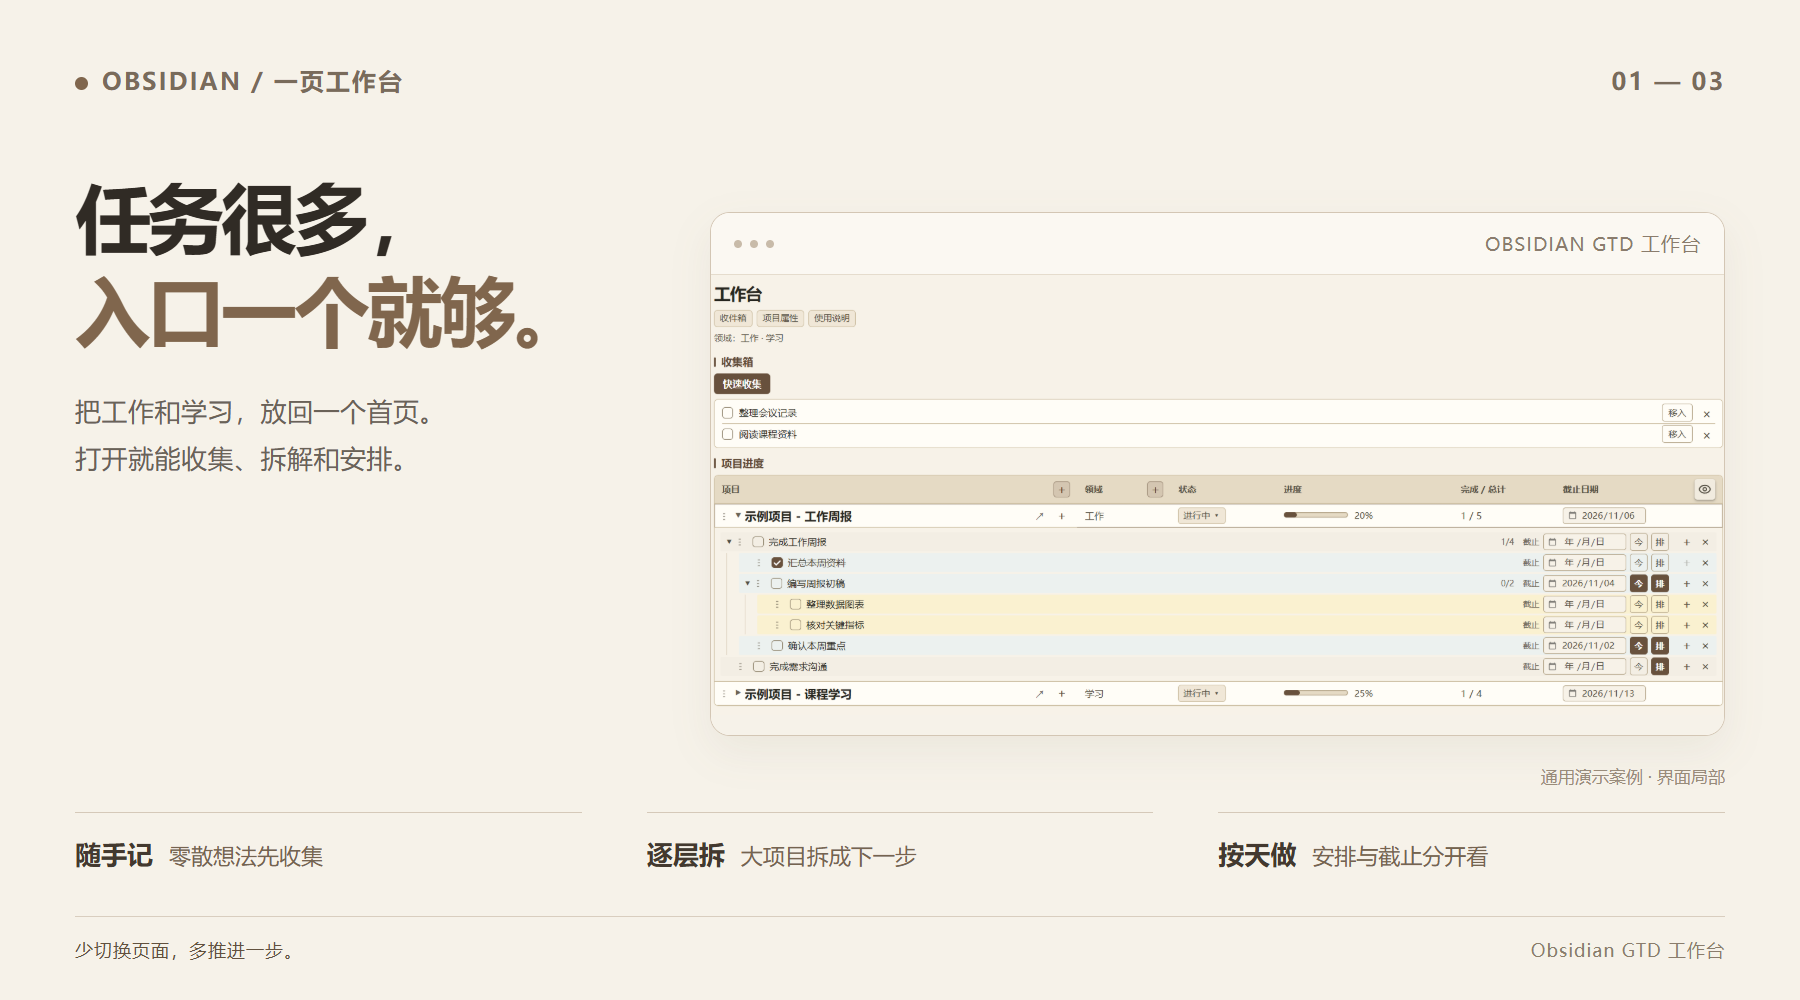
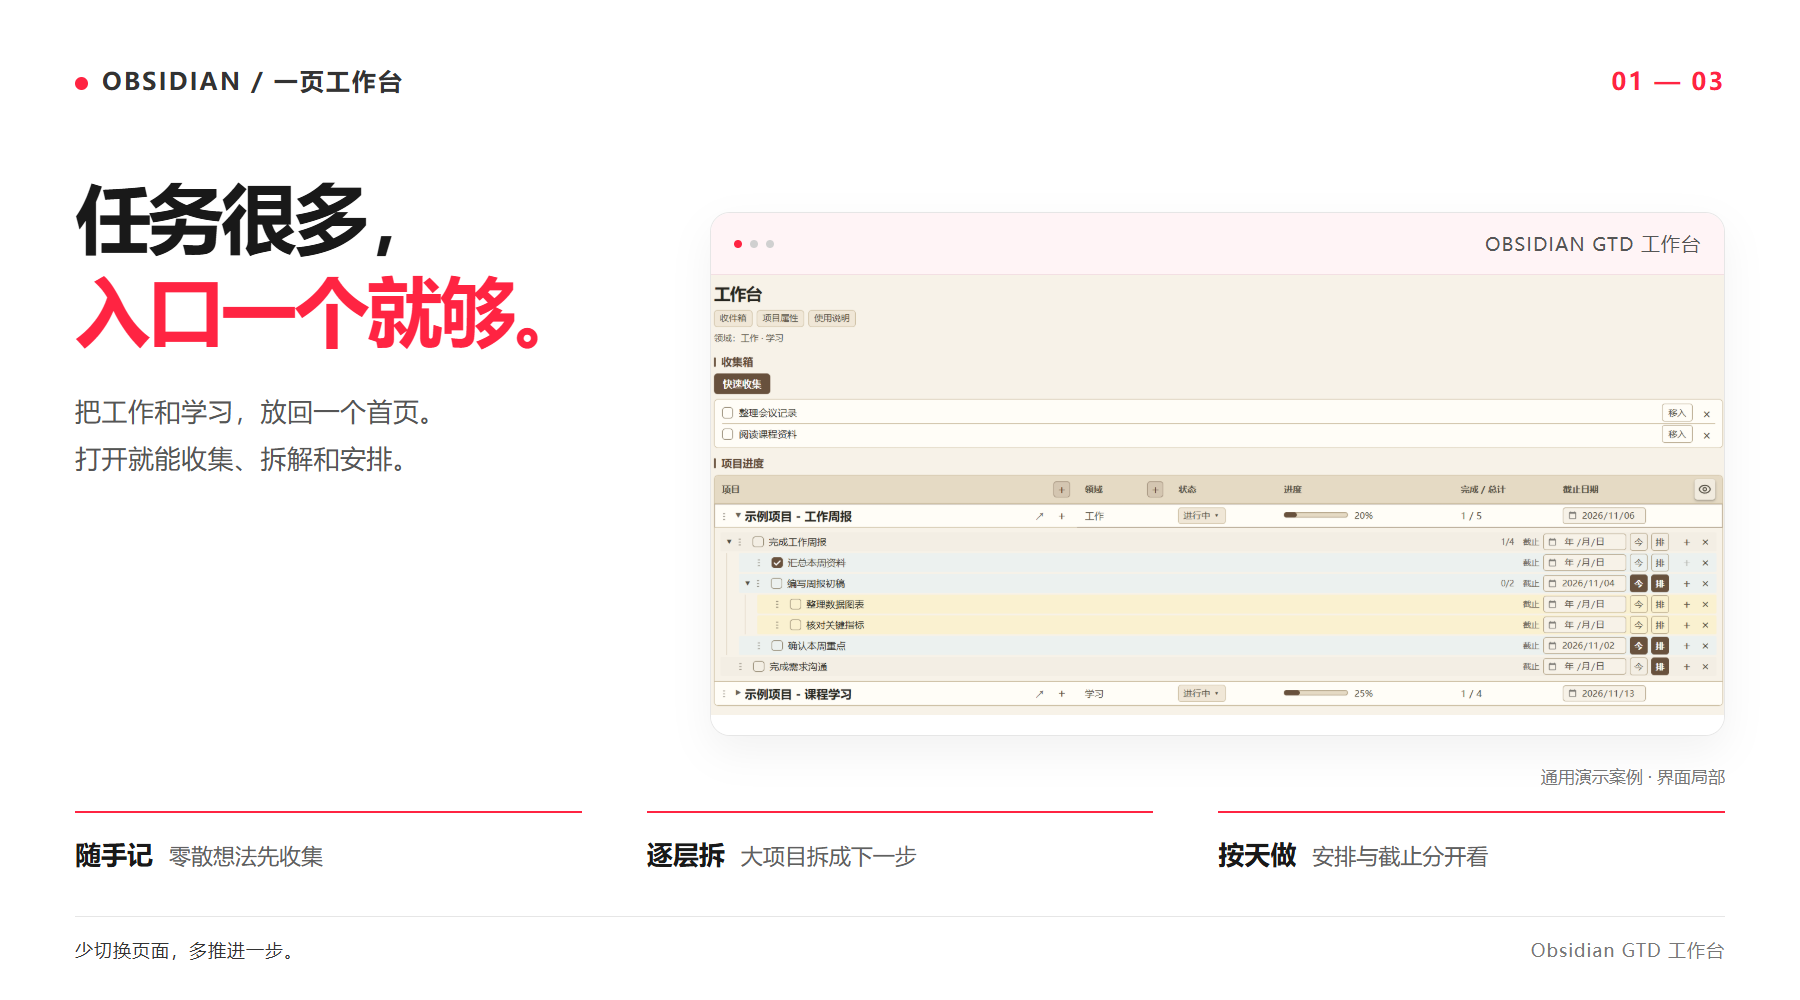
style: use red white black palette for promotional graphics

diff --git a/维护资料/宣传配图.html b/维护资料/宣传配图.html
@@ -3,23 +3,24 @@
 <meta charset="utf-8">
 <title>Obsidian GTD 工作台 · 宣传配图</title>
 <style>
-*{box-sizing:border-box}html,body{margin:0;padding:0;background:#f6f2e9;color:#302b25;font-family:"Microsoft YaHei","PingFang SC",sans-serif}
-.poster{position:relative;width:1080px;height:1440px;overflow:hidden;padding:68px 70px;background:#f6f2e9}
-.eyebrow{display:flex;justify-content:space-between;align-items:center;color:#796b5b;font-size:22px;font-weight:600;letter-spacing:2px}
-.mark{width:13px;height:13px;background:#80664d;display:inline-block;margin-right:14px;border-radius:50%}
+*{box-sizing:border-box}html,body{margin:0;padding:0;background:#fff;color:#191919;font-family:"Microsoft YaHei","PingFang SC",sans-serif}
+.poster{position:relative;width:1080px;height:1440px;overflow:hidden;padding:68px 70px;background:#fff}
+.eyebrow{display:flex;justify-content:space-between;align-items:center;color:#333;font-size:22px;font-weight:600;letter-spacing:2px}
+.eyebrow>div:last-child{color:#ff2442}
+.mark{width:13px;height:13px;background:#ff2442;display:inline-block;margin-right:14px;border-radius:50%}
 h1{font-size:88px;line-height:1.2;letter-spacing:-4px;margin:50px 0 27px;font-weight:800}
-h1 span{color:#80664d}.lead{font-size:31px;line-height:1.7;color:#6a6258;margin:0;letter-spacing:.5px}
-.frame{position:relative;border:1px solid #d3c6b4;border-radius:20px;background:#fffdf8;overflow:hidden;margin-top:38px;box-shadow:0 16px 40px #6e594813}
-.chrome{display:flex;align-items:center;gap:8px;padding:18px 23px;border-bottom:1px solid #e5dccd;font-size:19px;color:#8a7c6d;letter-spacing:1px;background:#fbf8f2}
-.dot{display:inline-block;width:8px;height:8px;border-radius:50%;background:#c8bba9}.chrome .label{margin-left:auto}
-.viewport{position:relative;overflow:hidden;height:544px;background:#f6f2e9}.viewport img{position:absolute;display:block;max-width:none;height:auto}
+h1 span{color:#ff2442}.lead{font-size:31px;line-height:1.7;color:#555;margin:0;letter-spacing:.5px}
+.frame{position:relative;border:1px solid #e6e6e6;border-radius:20px;background:#fff;overflow:hidden;margin-top:38px;box-shadow:0 16px 40px #0000000d}
+.chrome{display:flex;align-items:center;gap:8px;padding:18px 23px;border-bottom:1px solid #f3dfe3;font-size:19px;color:#555;letter-spacing:1px;background:#fff4f6}
+.dot{display:inline-block;width:8px;height:8px;border-radius:50%;background:#d0d0d0}.dot:first-child{background:#ff2442}.chrome .label{margin-left:auto}
+.viewport{position:relative;overflow:hidden;height:544px;background:#fff}.viewport img{position:absolute;display:block;max-width:none;height:auto}
 .cover .viewport img{width:1320px;left:-5px;top:0}.cover .viewport{height:520px}
 .tasks .viewport img{width:2200px;left:-30px;top:-80px}.tasks .viewport{height:490px}
 .calendar .viewport img{width:2260px;left:-48px;top:-112px}.calendar .viewport{height:520px}
-.pills{display:flex;gap:14px;margin-top:35px}.pill{flex:1;border-top:1px solid #d5c9b9;padding-top:20px;font-size:24px;color:#756450;line-height:1.6}
-.pill b{display:block;font-size:27px;color:#43392f;font-weight:600}.aside{margin-top:27px;color:#756c61;font-size:24px;line-height:1.65}
-.footer{position:absolute;bottom:52px;left:70px;right:70px;display:flex;justify-content:space-between;padding-top:21px;border-top:1px solid #d9cebf;font-size:18px;color:#8a7d6c;letter-spacing:1px}
-.footer strong{color:#62513e;font-weight:500}.note{font-size:17px;color:#998c7a;text-align:right;margin-top:12px}
+.pills{display:flex;gap:14px;margin-top:35px}.pill{flex:1;border-top:2px solid #ff2442;padding-top:20px;font-size:24px;color:#606060;line-height:1.6}
+.pill b{display:block;font-size:27px;color:#191919;font-weight:600}.aside{margin-top:27px;color:#606060;font-size:24px;line-height:1.65}
+.footer{position:absolute;bottom:52px;left:70px;right:70px;display:flex;justify-content:space-between;padding-top:21px;border-top:1px solid #e6e6e6;font-size:18px;color:#777;letter-spacing:1px}
+.footer strong{color:#333;font-weight:500}.note{font-size:17px;color:#777;text-align:right;margin-top:12px}
 .wide.poster{width:1800px;height:1000px;padding:65px 75px}.wide .eyebrow{font-size:24px}.wide .text{width:575px;position:absolute;left:75px;top:170px}.wide h1{font-size:76px;letter-spacing:-3px;line-height:1.22;margin:0 0 33px}.wide .lead{font-size:26px;line-height:1.8}.wide .frame{position:absolute;left:710px;top:212px;width:1015px;margin:0}.wide .viewport{height:460px}.wide .viewport img{width:1015px;left:0;top:0}.wide .pills{position:absolute;left:75px;right:75px;bottom:125px;gap:65px}.wide .pill{font-size:22px}.wide .pill b{display:inline;font-size:26px;margin-right:16px}.wide .footer{bottom:38px;left:75px;right:75px}.wide .note{position:absolute;right:75px;top:753px}
 </style>
 <main id="poster" class="poster"></main>

diff --git a/维护资料/README.md b/维护资料/README.md
@@ -6,7 +6,7 @@
 
 仓库根目录的 README 提供简洁介绍；详细安装和操作教程在 `docs/安装与使用.md`，可直接复用的小红书文案在 `docs/小红书图文.md`。`docs/images/` 中的七张界面截图于 2026-11-02 通过 Obsidian.com 从独立演示库的 1.10.2 版本重新截取，使用工作周报与课程学习两个示例项目。
 
-`宣传配图.html` 将这些真实截图排成米白色图文卡片。使用 `?card=cover`、`?card=tasks`、`?card=calendar` 选择三张 1080 × 1440 竖图；`?card=cover&format=wide` 为 1800 × 1000 的 README 横图。界面文字来自原始截图，标题和说明是单独的页面元素。重拍截图后，重新渲染这个 HTML 即可更新配图。
+`宣传配图.html` 将这些真实截图排成红、白、黑配色的图文卡片：白底、黑色标题、红色重点。使用 `?card=cover`、`?card=tasks`、`?card=calendar` 选择三张 1080 × 1440 竖图；`?card=cover&format=wide` 为 1800 × 1000 的 README 横图。界面文字来自原始截图，标题和说明是单独的页面元素。重拍截图后，重新渲染这个 HTML 即可更新配图。
 
 ## GTD 快捷操作
 
